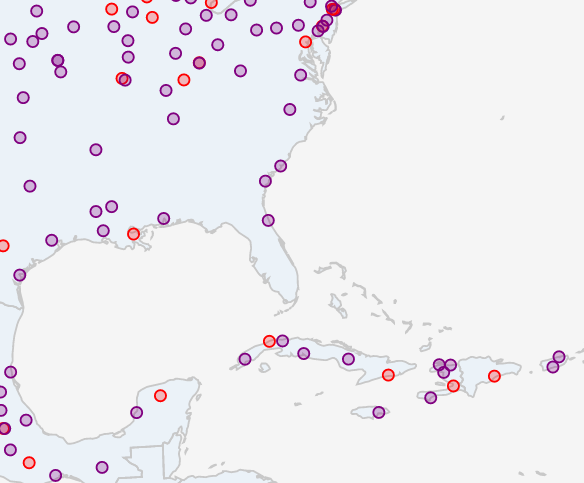
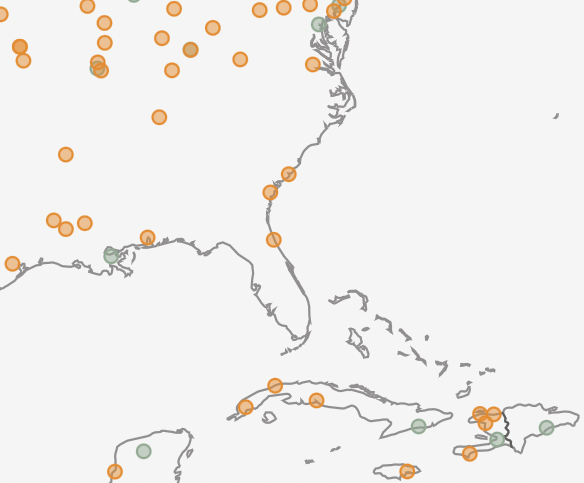
style updates to dioceses map

diff --git a/assets/viz/catholic-dioceses/style.css b/assets/viz/catholic-dioceses/style.css
@@ -1,35 +1,61 @@
+/* color scheme: 
+    #F2AC29 orange #F18701
+    #FEFEFE white #F7F4F3
+    #8ACDEA blue #9EB3C2
+    #FE654F red #D7263D
+    #122C34 black #2E282A
+    #659157 green #8DAA91 */
+
+:root {
+    --color-orange: #F18701;
+    --color-white: #F7F4F3;
+    --color-blue: #9EB3C2;
+    --color-red: #D7263D;
+    --color-black: #2E282A;
+    --color-green: #8DAA91;
+    --color-link-primary: #0060b1;
+    --color-link-hover: #005398;
+}
+
 .country {
-    fill: rgba(212, 234, 254, 0.3);
-    stroke: rgb(200, 200, 200);
+    fill: transparent;
+    stroke: var(--color-black);
+    stroke-opacity: 0.5;
+}
+
+.states {
+    fill: transparent;
+    stroke: var(--color-black);
+    stroke-opacity: 0.5;
 }
 
 .diocese {
-    fill: purple;
-    fill-opacity: 0.25;
-    stroke: purple;
+    fill: var(--color-orange);
+    fill-opacity: 0.5;
+    stroke: var(--color-orange);
     stroke-opacity: 1;
 }
 
 .metropolitan {
-    fill: red;
-    fill-opacity: 0.25;
-    stroke: red;
+    fill: var(--color-green);
+    fill-opacity: 0.5;
+    stroke: var(--color-green);
     stroke-opacity: 1;
 }
 
 .nonlatin {
     fill-opacity: 0.75;
-    stroke: black;
+    stroke: var(--color-black);
     stroke-width: 1;
     stroke-opacity: 1;
 }
 
 rect {
-    fill: gray;
+    fill: var(--color-black);
 }
 
 .active {
-    fill: red;
+    fill: var(--color-red);
     }
 
 .tooltip {
